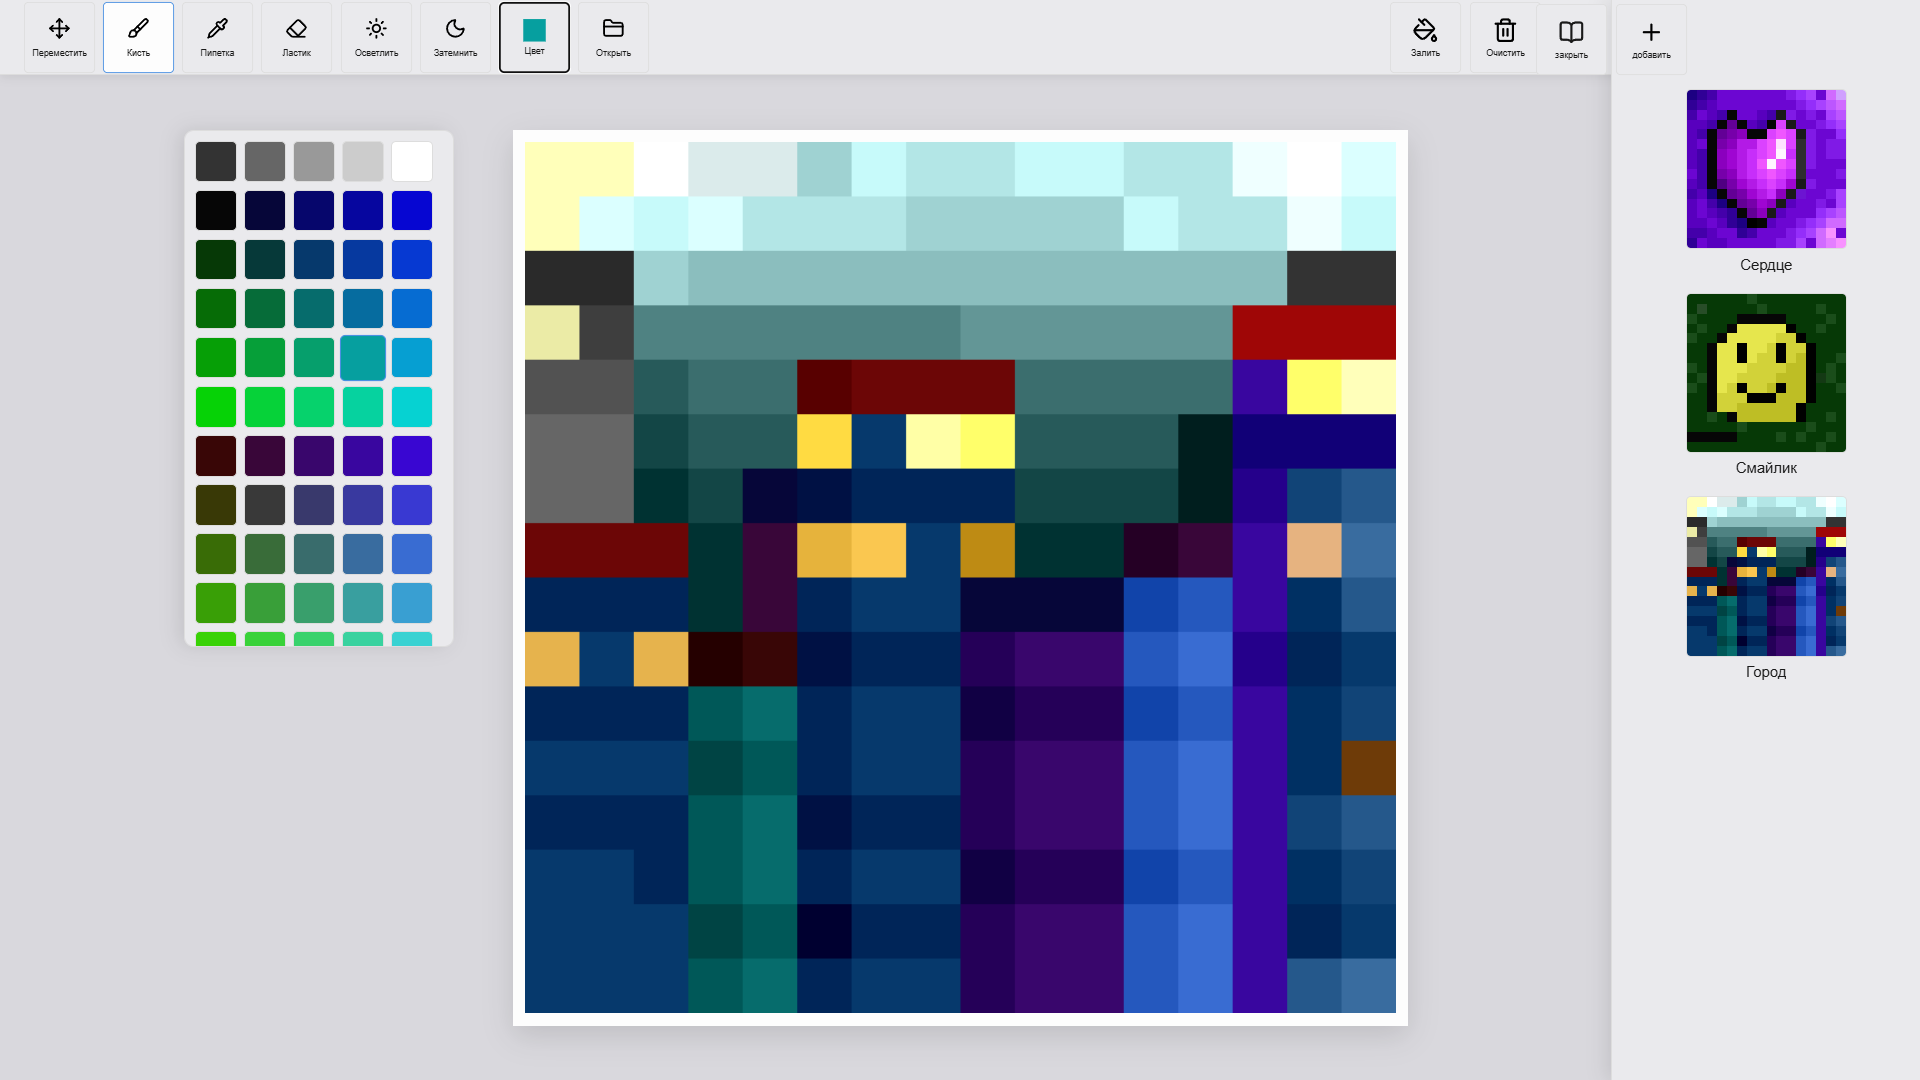
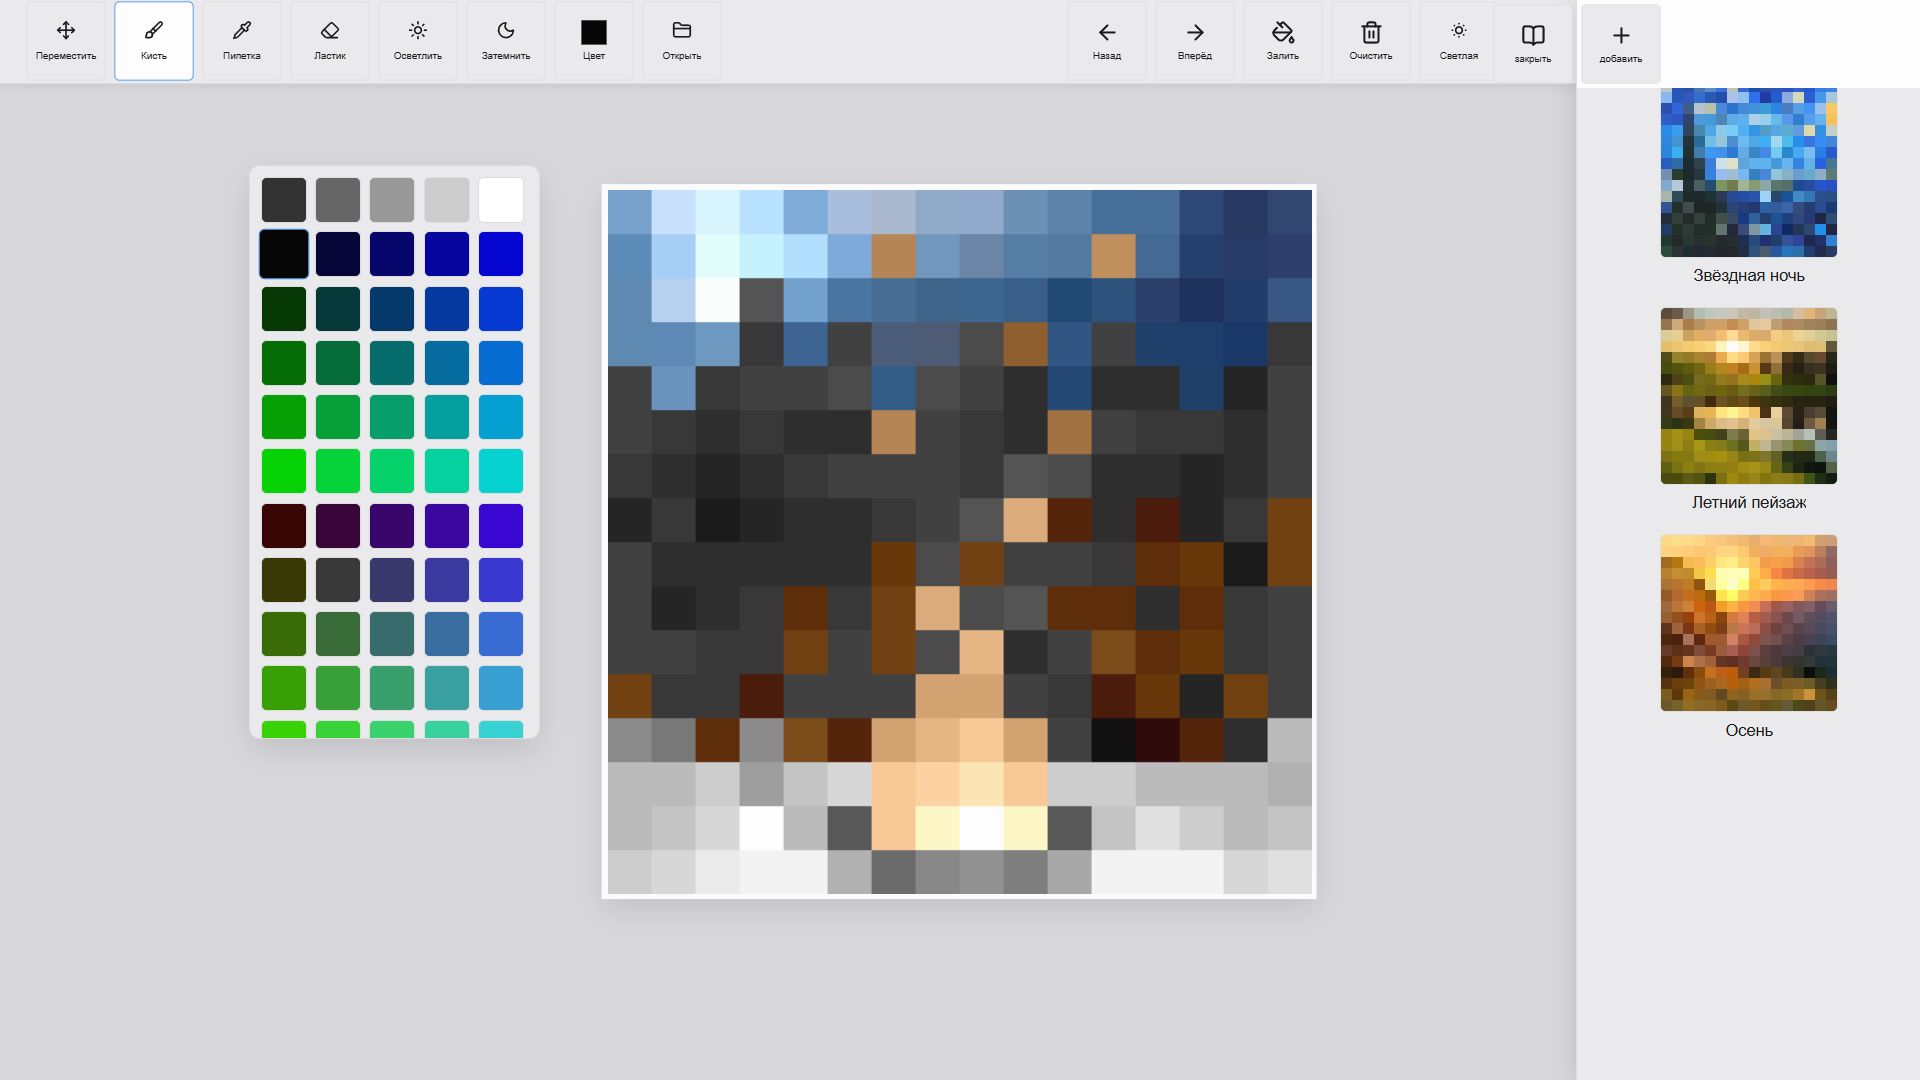
micro fix

diff --git a/server/src/prisma/seed.ts b/server/src/prisma/seed.ts
@@ -12,66 +12,66 @@ type SeedType = {
 
 const presetsList: SeedType[] = [
     {
-        title: 'Сердце',
+        title: 'Звёзды',
         content: [
-            1835138, 3145878, 4456618, 7079634, 7079634, 7079634, 7079634, 7079634, 7079634, 7079634, 8395494, 9711354, 11027199, 7079634, 13658879, 13672703,
-            3145878, 4456618, 5767358, 7079634, 7079634, 7079634, 7079634, 7079634, 7079634, 7079634, 7079634, 8395494, 9711354, 11027199, 12343039, 13658879,
-            4456618, 7079634, 5767358, 4456618, 394758, 7079634, 7079634, 5767358, 4456618, 1710618, 8395494, 7079634, 8395494, 7079634, 11027199, 12343039,
-            5767358, 5767358, 4456618, 394758, 6488214, 394758, 5767358, 4456618, 394758, 14369535, 1710618, 7079634, 7079634, 8395494, 9711354, 11027199,
-            5767358, 4456618, 394758, 6488214, 7798954, 9109694, 394758, 394758, 14369535, 15685375, 14369535, 1710618, 8395494, 7079634, 7079634, 9711354,
-            5767358, 7079634, 394758, 7798954, 9109694, 11737830, 11737830, 14369535, 15685375, 16769791, 14369535, 3026478, 8395494, 7079634, 8395494, 8395494,
-            5767358, 4456618, 394758, 9109694, 10421970, 11737830, 13053690, 14369535, 15685375, 16774911, 13053690, 3026478, 8395494, 7079634, 8395494, 8395494,
-            5767358, 4456618, 394758, 9109694, 10421970, 11737830, 13053690, 15685375, 16774911, 15685375, 14369535, 3026478, 8395494, 7079634, 7079634, 7079634,
-            7079634, 4456618, 394758, 7798954, 9109694, 11737830, 13053690, 14369535, 15685375, 14369535, 13053690, 3026478, 7079634, 7079634, 7079634, 8395494,
-            5767358, 4456618, 394758, 5177474, 7798954, 10421970, 11737830, 13053690, 14369535, 13053690, 10421970, 1710618, 8395494, 7079634, 7079634, 7079634,
-            4456618, 5767358, 1835138, 394758, 6488214, 7798954, 10421970, 11737830, 13053690, 9109694, 1710618, 7083218, 7079634, 7079634, 8395494, 11027199,
-            5767358, 7079634, 4456618, 1835138, 394758, 6488214, 7798954, 10421970, 9109694, 1710618, 5767358, 7079634, 7079634, 8395494, 7079634, 11027199,
-            5767358, 7079634, 5767358, 4456618, 3145878, 394758, 6488214, 9109694, 1710618, 5767358, 7079634, 7079634, 7079634, 9711354, 11027199, 12343039,
-            5767358, 5767358, 7079634, 5767358, 3145878, 1835138, 0, 394758, 5767358, 7079634, 7079634, 8395494, 9711354, 11027199, 13658879, 13658879,
-            4456618, 4456618, 5767358, 7079634, 7079634, 3145878, 4456618, 7079634, 7079634, 7079634, 8395494, 9711354, 11027199, 13658879, 16290559, 7079634,
-            3145878, 7079634, 5767358, 5767358, 7079634, 7079634, 7079634, 7079634, 7079634, 8395494, 8395494, 11027199, 7079634, 13658879, 14974719, 16290559,
+            11978698, 1789876, 1788838, 4418741, 5408458, 3042012, 11977395, 3170513, 1262501, 1919655, 1855161, 1854910, 2579401, 1789642, 2783719, 3375069,
+            8631788, 1855668, 2772926, 2713545, 1590952, 1590952, 10928104, 9158645, 2451692, 1455010, 1594826, 9021147, 13883580, 2119377, 3904234, 10601691,
+            2246830, 2514391, 3561601, 11584206, 11976616, 4424920, 2256332, 4096982, 3641048, 3250645, 2522847, 4289984, 5216741, 3837942, 10010605, 16369245,
+            2316229, 2314431, 2243945, 4756696, 3839706, 4751795, 5744870, 5876973, 11194345, 9686764, 6338281, 5346537, 2586575, 5151467, 6270959, 16236373,
+            2197225, 2988526, 2440535, 3965865, 4563941, 9029610, 7588597, 4893937, 2724067, 4889284, 5153756, 5548496, 6133724, 14735270, 2919645, 12897479,
+            2589403, 3772624, 1583408, 2057107, 7060452, 9814999, 4360659, 6666478, 4564198, 3321071, 10409967, 4504300, 1804779, 2977501, 3114740, 3703510,
+            2195932, 3256045, 1386793, 3700648, 3381233, 3771882, 2388944, 6138083, 3178692, 3900645, 7195125, 1934285, 4236781, 7650545, 2062564, 2118092,
+            1988026, 2385314, 1385001, 2505030, 3503832, 13492454, 14671812, 5742806, 5812461, 5877485, 4101083, 6402289, 2719200, 6008806, 1924318, 3960973,
+            7179183, 2110496, 1253155, 1650233, 2915037, 9747184, 10271954, 7517678, 2652862, 4292821, 9290457, 8564420, 6658763, 6269129, 9219012, 5928305,
+            8103370, 11585492, 1516840, 4282201, 2048360, 7770713, 7042373, 10399632, 8558703, 8954532, 5468514, 5203815, 1262476, 2049179, 2051528, 1853637,
+            10793893, 2441810, 1384480, 1383713, 1190186, 2174794, 1851793, 1656225, 1854883, 10081014, 1982053, 1132948, 3704261, 2716336, 2115463, 2115707,
+            2640783, 1648417, 3818055, 1317658, 1317662, 1517869, 2243695, 1783152, 1650279, 2316963, 2708632, 3301026, 2704246, 1651564, 2114955, 995441,
+            1581617, 2765873, 1516061, 2766898, 1451039, 3688257, 3096663, 799098, 2513560, 1521257, 1329554, 1259637, 2441082, 1716333, 1252414, 2311022,
+            1389404, 1386527, 2372399, 1385504, 1451804, 5992296, 1580340, 3097459, 7836063, 6140125, 2046861, 270171, 1649742, 2178668, 1608427, 1514043,
+            1518886, 1646370, 1781800, 1910056, 1911331, 1580835, 1844264, 1254729, 1917043, 1582186, 1325154, 2902420, 2374548, 1187656, 1582948, 2783950,
+            2442032, 2042923, 1254181, 1580842, 1777706, 1448995, 1580323, 1451071, 2444663, 4150374, 1855643, 1928633, 2255271, 1258859, 1581381, 1978203,
         ],
     },
     {
-        title: 'Смайлик',
+        title: 'Летний пейзаж',
         content: [
-            407814, 407814, 407814, 407814, 407814, 407814, 1723674, 407814, 407814, 407814, 407814, 407814, 407814, 407814, 407814, 407814,
-            407814, 2641192, 407814, 407814, 407814, 407814, 407814, 1723674, 407814, 407814, 407814, 407814, 407814, 1723674, 407814, 407814,
-            1723674, 407814, 407814, 407814, 407814, 394758, 394758, 394758, 394758, 394758, 407814, 407814, 407814, 407814, 1723674, 407814,
-            407814, 1723674, 407814, 407814, 394758, 15132237, 15132237, 15132237, 15132237, 15132237, 0, 407814, 407814, 1723674, 407814, 407814,
-            1723674, 407814, 407814, 394758, 15132237, 15132237, 15132237, 15132237, 15132237, 13816377, 13816377, 0, 407814, 407814, 407814, 407814,
-            407814, 407814, 394758, 15132237, 15132237, 0, 15132237, 15132237, 13816377, 0, 13816377, 13816377, 0, 407814, 407814, 407814,
-            407814, 407814, 394758, 15132237, 15132237, 0, 15132237, 13816377, 13816377, 0, 13816377, 12500517, 0, 407814, 407814, 1723674,
-            1723674, 407814, 394758, 15132237, 15132237, 15132237, 13816377, 13816377, 13816377, 13816377, 12500517, 12500517, 0, 407814, 1723674, 407814,
-            407814, 1723674, 394758, 15132237, 15132237, 13816377, 13816377, 13816377, 13816377, 12500517, 12500517, 12500517, 0, 1325332, 1723674, 407814,
-            1723674, 407814, 394758, 15132237, 13816377, 0, 13816377, 13816377, 12500517, 0, 12500517, 12500517, 0, 407814, 407814, 1723674,
-            407814, 407814, 394758, 13816377, 13816377, 13816377, 0, 0, 0, 12500517, 12500517, 12500517, 0, 407814, 407814, 407814,
-            407814, 407814, 394758, 13816377, 13816377, 12500517, 12500517, 12500517, 12500517, 12500517, 12500517, 0, 407814, 407814, 407814, 407814,
-            407814, 407814, 1723674, 407814, 394758, 12500517, 12500517, 12500517, 12500517, 12500517, 12500517, 0, 407814, 407814, 1723674, 407814,
-            407814, 407814, 407814, 407814, 407814, 1723674, 407814, 407814, 407814, 407814, 407814, 407814, 1723674, 407814, 407814, 407814,
-            394758, 394758, 394758, 394758, 394758, 407814, 407814, 407814, 407814, 1723674, 407814, 1723674, 407814, 407814, 1723674, 407814,
-            407814, 407814, 407814, 407814, 407814, 407814, 407814, 407814, 407814, 407814, 407814, 407814, 407814, 1723674, 407814, 407814,
+            5588018, 6640196, 9867647, 11713198, 12371385, 12895931, 13026742, 12563873, 12170142, 12566706, 12041134, 11581093, 13876378, 14791025, 12951407, 12169873,
+            9400134, 13281140, 11106113, 12095068, 13343840, 13540701, 12748617, 13475169, 14730649, 15255449, 12294764, 11305817, 11175772, 10190166, 9927250, 8940876,
+            14273169, 14995084, 13278809, 14658653, 14657894, 15973480, 16767888, 15382119, 14395489, 14133351, 16042878, 15385716, 15651212, 14732948, 13682064, 12959884,
+            14990692, 15516521, 16042088, 16502124, 16569978, 16774591, 16711161, 16775120, 16702085, 16502386, 16041837, 15582574, 15254132, 14531182, 14662768, 6115378,
+            4735501, 9207585, 9336092, 10714659, 11367466, 15247431, 16767616, 16765051, 14261841, 9989160, 12160081, 4599572, 2826249, 4931876, 6242854, 1842188,
+            4080645, 4868612, 5657090, 7036421, 9729807, 11502099, 12614680, 10642442, 13078059, 5320456, 9005358, 2956812, 1906183, 2958617, 3483669, 1118984,
+            2366979, 4471051, 4539910, 7365400, 7364615, 9336338, 9465107, 10847251, 10977792, 9472520, 6577411, 2565888, 2302720, 2104833, 5065760, 263680,
+            6180373, 8548107, 6118663, 6906374, 6772748, 7035905, 6574598, 7301137, 6380559, 5395728, 3818509, 3030277, 2964739, 2570757, 2571017, 2241033,
+            3680786, 7361819, 5654824, 6047771, 3612928, 6704151, 5849098, 6571276, 4467712, 3353090, 2761986, 2433029, 1840902, 1710083, 1775621, 1381125,
+            3681042, 6177567, 5387017, 14331734, 15315530, 16770170, 16774282, 16767615, 15712870, 4335626, 15323032, 5456172, 2168588, 4207910, 5063728, 526340,
+            2634508, 2238474, 3091972, 10387000, 13280862, 14465154, 14925448, 14069616, 14862746, 14140572, 14140565, 5192997, 1708811, 6639929, 10254665, 592131,
+            9469448, 10652424, 9731849, 4408320, 4080901, 3750415, 7894599, 6577194, 14860932, 14335882, 13090719, 12104339, 10395796, 11845297, 5657933, 1841942,
+            9535494, 10455824, 9009160, 10785035, 8681736, 8156939, 6514964, 5132304, 12496475, 12497809, 9736044, 8291662, 6908705, 6384186, 8823461, 8232103,
+            7629575, 8418310, 8352519, 10192906, 10455044, 10783493, 9666573, 7497739, 7760398, 7893026, 5921050, 1779214, 1580809, 1318921, 4545349, 6521482,
+            5920518, 7695369, 8812803, 8089353, 8943880, 9074692, 9271557, 10323722, 10718730, 9798155, 6249741, 2701069, 989958, 330501, 264195, 4807486,
+            4211207, 4342274, 5657098, 5065479, 2238721, 7629060, 10061058, 9008642, 9732367, 8285697, 8812301, 8680460, 7366662, 3755017, 1188873, 463365,
         ],
     },
     {
-        title: 'Город',
+        title: 'Осень',
         content: [
-            16777146, 16777146, 16777215, 14412779, 14412779, 10474194, 13105914, 11790054, 11790054, 13105914, 13105914, 11790054, 11790054, 15728639, 16777215, 14417919,
-            16777146, 14417919, 13105914, 14417919, 11790054, 11790054, 11790054, 10474194, 10474194, 10474194, 10474194, 13105914, 11790054, 11790054, 15728639, 13105914,
-            2763306, 2763306, 10474194, 9158334, 9158334, 9158334, 9158334, 9158334, 9158334, 9158334, 9158334, 9158334, 9158334, 9158334, 3355443, 3355443,
-            15461286, 4079166, 5210754, 5210754, 5210754, 5210754, 5210754, 5210754, 6526614, 6526614, 6526614, 6526614, 6526614, 10421766, 10421766, 10421766,
-            5395026, 5395026, 2579034, 3894894, 3894894, 5767168, 7079430, 7079430, 7079430, 3894894, 3894894, 3894894, 3894894, 3737247, 16777066, 16777146,
-            6710886, 6710886, 1263174, 2579034, 2579034, 16767810, 407916, 16777126, 16777066, 2579034, 2579034, 2579034, 7710, 1114231, 1114231, 1114231,
-            6710886, 6710886, 12850, 1263174, 394809, 4420, 9560, 9560, 9560, 1263174, 1263174, 1263174, 7710, 2424971, 1131639, 2447499,
-            7079430, 7079430, 7079430, 12850, 3737145, 15119164, 16435024, 407916, 12487444, 12850, 12850, 2424869, 3737145, 3737247, 15119232, 3763359,
-            9560, 9560, 9560, 12850, 3737145, 9560, 407916, 407916, 394809, 394809, 394809, 1131690, 2447550, 3737247, 12387, 2447499,
-            15119181, 407916, 15119181, 2424832, 3737094, 4420, 9560, 9560, 2424920, 3737196, 3737196, 2447550, 3763410, 2424971, 9560, 407916,
-            9560, 9560, 9560, 22616, 420972, 9560, 407916, 407916, 1114180, 2424920, 2424920, 1131690, 2447550, 3737247, 12387, 1131639,
-            407916, 407916, 407916, 17476, 22616, 9560, 407916, 407916, 2424920, 3737196, 3737196, 2447550, 3763410, 3737247, 12387, 7224072,
-            9560, 9560, 9560, 22616, 420972, 4420, 9560, 9560, 2424920, 3737196, 3737196, 2447550, 3763410, 3737247, 1131639, 2447499,
-            407916, 407916, 9560, 22616, 420972, 9560, 407916, 407916, 1114180, 2424920, 2424920, 1131690, 2447550, 3737247, 12387, 1131639,
-            407916, 407916, 407916, 17476, 22616, 48, 9560, 9560, 2424920, 3737196, 3737196, 2447550, 3763410, 3737247, 9560, 407916,
-            407916, 407916, 407916, 22616, 420972, 9560, 407916, 407916, 2424920, 3737196, 3737196, 2447550, 3763410, 3737247, 2447499, 3763359,
+            16635778, 16637061, 16636804, 16701057, 16566906, 16434295, 16170610, 15775597, 15313768, 16168304, 15644013, 15512433, 15774320, 15972969, 13605994, 13212270,
+            16633977, 16699768, 16698227, 16630895, 16697201, 16766077, 16766331, 16631656, 15903833, 15771743, 16100435, 15969622, 15243342, 14717014, 12286037, 9069405,
+            10118421, 11694339, 16103501, 16628305, 16764256, 16770938, 16772742, 16765801, 16761949, 15964482, 16227137, 16094786, 14253125, 12610637, 11101519, 8804694,
+            11828260, 12749098, 12486431, 15910204, 16768328, 16777134, 16777151, 16777144, 16763212, 16755263, 16351804, 14642489, 13001533, 11885632, 10638662, 9786442,
+            10972203, 11824678, 12416537, 9129216, 15981166, 16777112, 16777158, 16776832, 16760386, 16763221, 16757572, 16755528, 16753739, 16750404, 16090688, 15696711,
+            9261851, 11624741, 12805649, 12083968, 9785600, 16770118, 16776798, 16762701, 16757576, 16754505, 16552506, 16684356, 16422993, 13400910, 11102549, 10250331,
+            10051889, 12348718, 13204527, 13327360, 12078858, 15767839, 16756541, 16421689, 15763534, 12871503, 10113348, 9788246, 8408914, 8345439, 6112082, 6444136,
+            9656617, 9324562, 9713664, 13528352, 11950350, 8600576, 13792564, 14842447, 11621947, 10245447, 8539209, 6635076, 7098717, 5916243, 5063769, 4868963,
+            5909006, 10050867, 7940362, 10967578, 9257988, 7616009, 11891263, 13135181, 11953489, 9061947, 6895924, 6833738, 5389124, 5324878, 4276309, 4016225,
+            4463617, 4527872, 10644305, 5643264, 10244386, 10179114, 13728602, 11030583, 9060657, 7949380, 6965317, 5388604, 4469563, 4274504, 3423056, 3293788,
+            6238495, 5645576, 6040085, 7815725, 7418391, 9786161, 10770505, 9059628, 8079172, 5583927, 4599603, 4601405, 4011325, 2369069, 2502200, 2174263,
+            4988672, 7287304, 13270339, 11168323, 10246706, 6171670, 5776919, 6893858, 6503991, 5126188, 4272434, 3484455, 2828835, 2764847, 1648432, 1517873,
+            2757888, 2428160, 5973248, 8733442, 12675349, 12081421, 12145920, 7091736, 3415303, 5125125, 5782805, 4010257, 2369045, 512, 1056527, 1253930,
+            5187584, 6435840, 6699520, 9063436, 10049812, 10969111, 11753728, 10442760, 11494930, 10709031, 6702625, 7820055, 7689500, 6640668, 3945750, 2565650,
+            7688981, 5582336, 9723148, 8606220, 8213015, 5980183, 9198614, 8607766, 9725983, 9398308, 8479003, 8807961, 10317856, 13209136, 6834701, 4864269,
+            6573854, 7494434, 9135637, 8610336, 8609303, 7885584, 5521671, 6902045, 7360272, 6178317, 6180117, 6115886, 4538127, 4732941, 6180381, 6308883,
         ],
     },
 ];

diff --git a/server/src/matrix/matrix.worker.ts b/server/src/matrix/matrix.worker.ts
@@ -13,7 +13,7 @@ export class MatrixWorker extends WorkerHost {
         for(let i=1;i<=step;i++) {
             const frame = this.interpolate(from, to, i / step)
             this.gateway.handleMatrixUpdate({matrix:frame})
-            await new Promise((r) => setTimeout(r,5))
+            await new Promise((r) => setTimeout(r,10))
         }
     }
 

diff --git a/client/src/shared/store/matrix.store.ts b/client/src/shared/store/matrix.store.ts
@@ -35,5 +35,5 @@ export const useMatrix = create<MatrixStore>((set,get) => (
         set({index: newIndex, matrix: history[newIndex]})
         LocalStorageSave('matrix', history[newIndex]);
     },
-    history: [LocalStorageGet('matrix')],}
-))
+    history: [LocalStorageGet('matrix')],
+}))

diff --git a/client/src/shared/configs/constants.config.ts b/client/src/shared/configs/constants.config.ts
@@ -7,6 +7,6 @@ export const CONSTANTS_CONFIG = {
     SERVER_URL_TRPC: 'http://localhost:3000/trpc',
     SERVER_URL_PICTURES: 'http://localhost:3000/pictures',
     ICON_SIZE: 16,
-    STEP_ANIMATION: 20,
+    STEP_ANIMATION: 25,
     STEP_SHADER: 10,
 } as const;

diff --git a/client/src/styles/widgets.scss b/client/src/styles/widgets.scss
@@ -114,7 +114,7 @@
 }
 
 #presetsBoxContent {
-    margin-top: 50px;
+    margin-top: 60px;
     height: 100%;
 }
 
